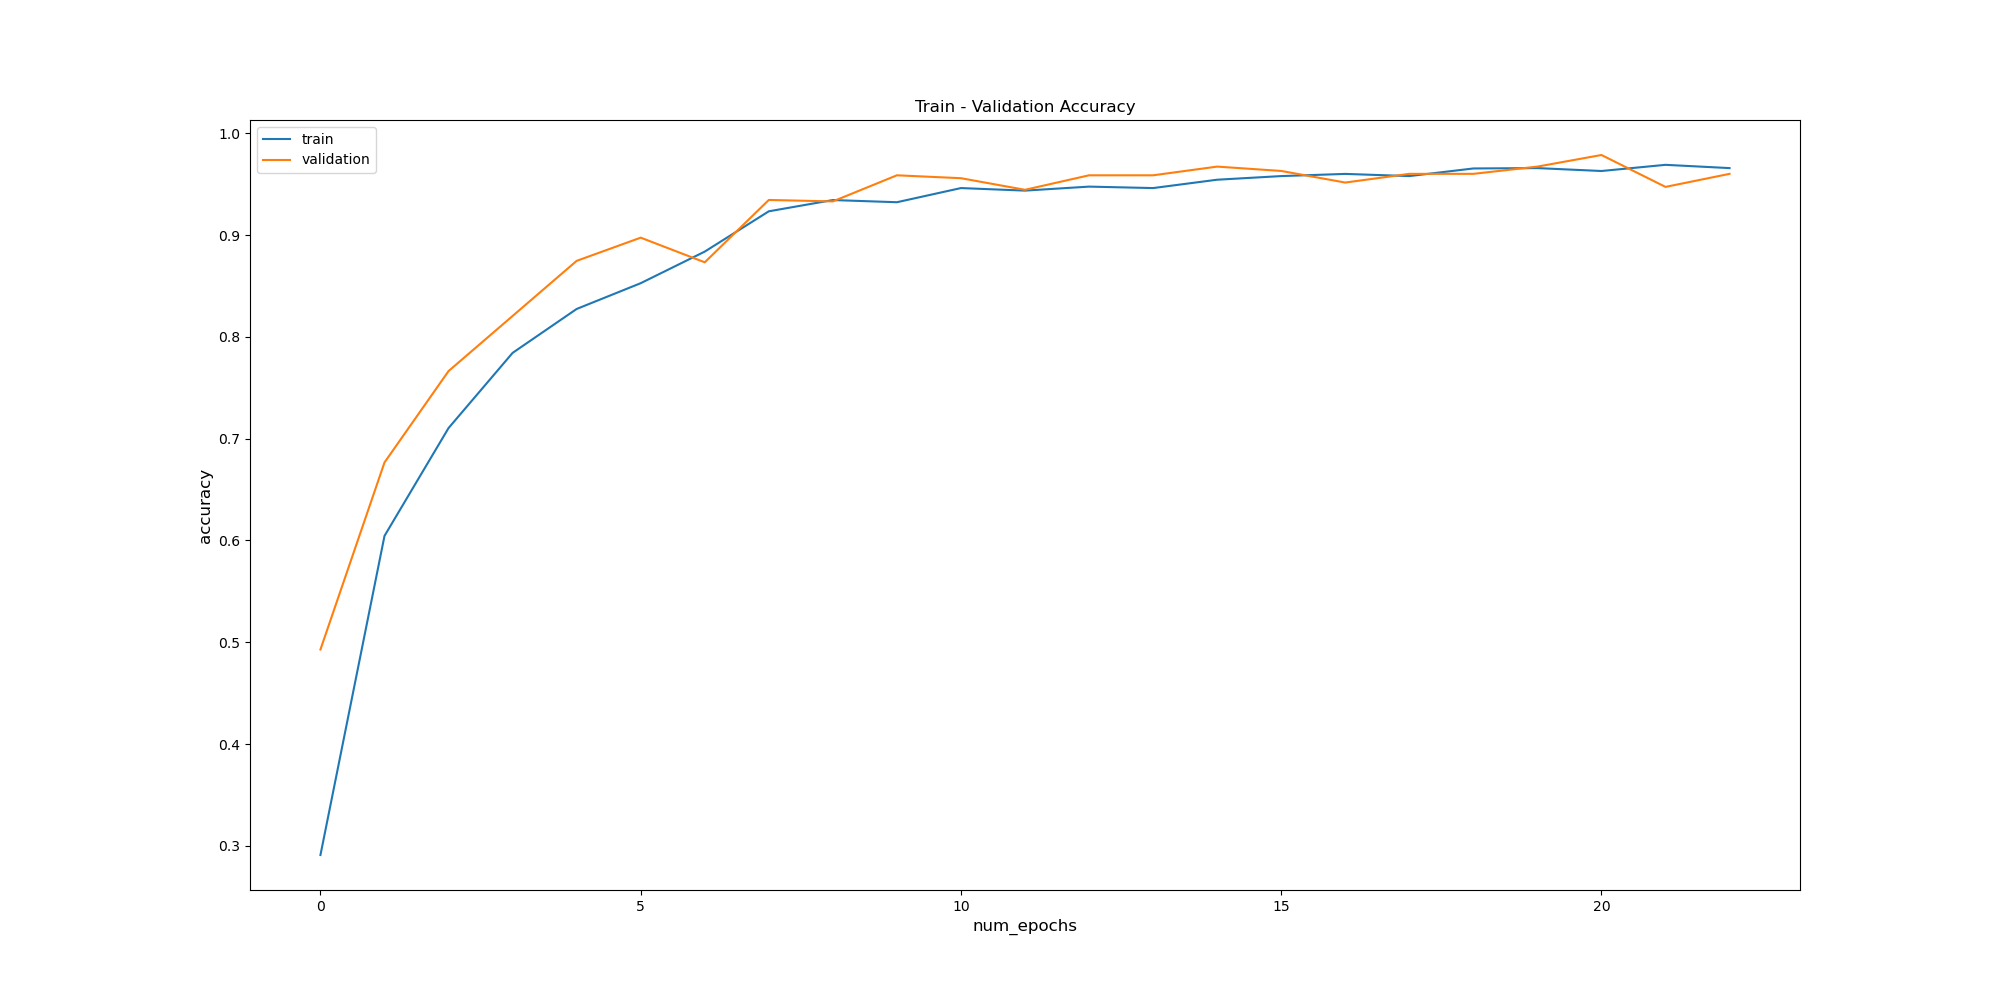
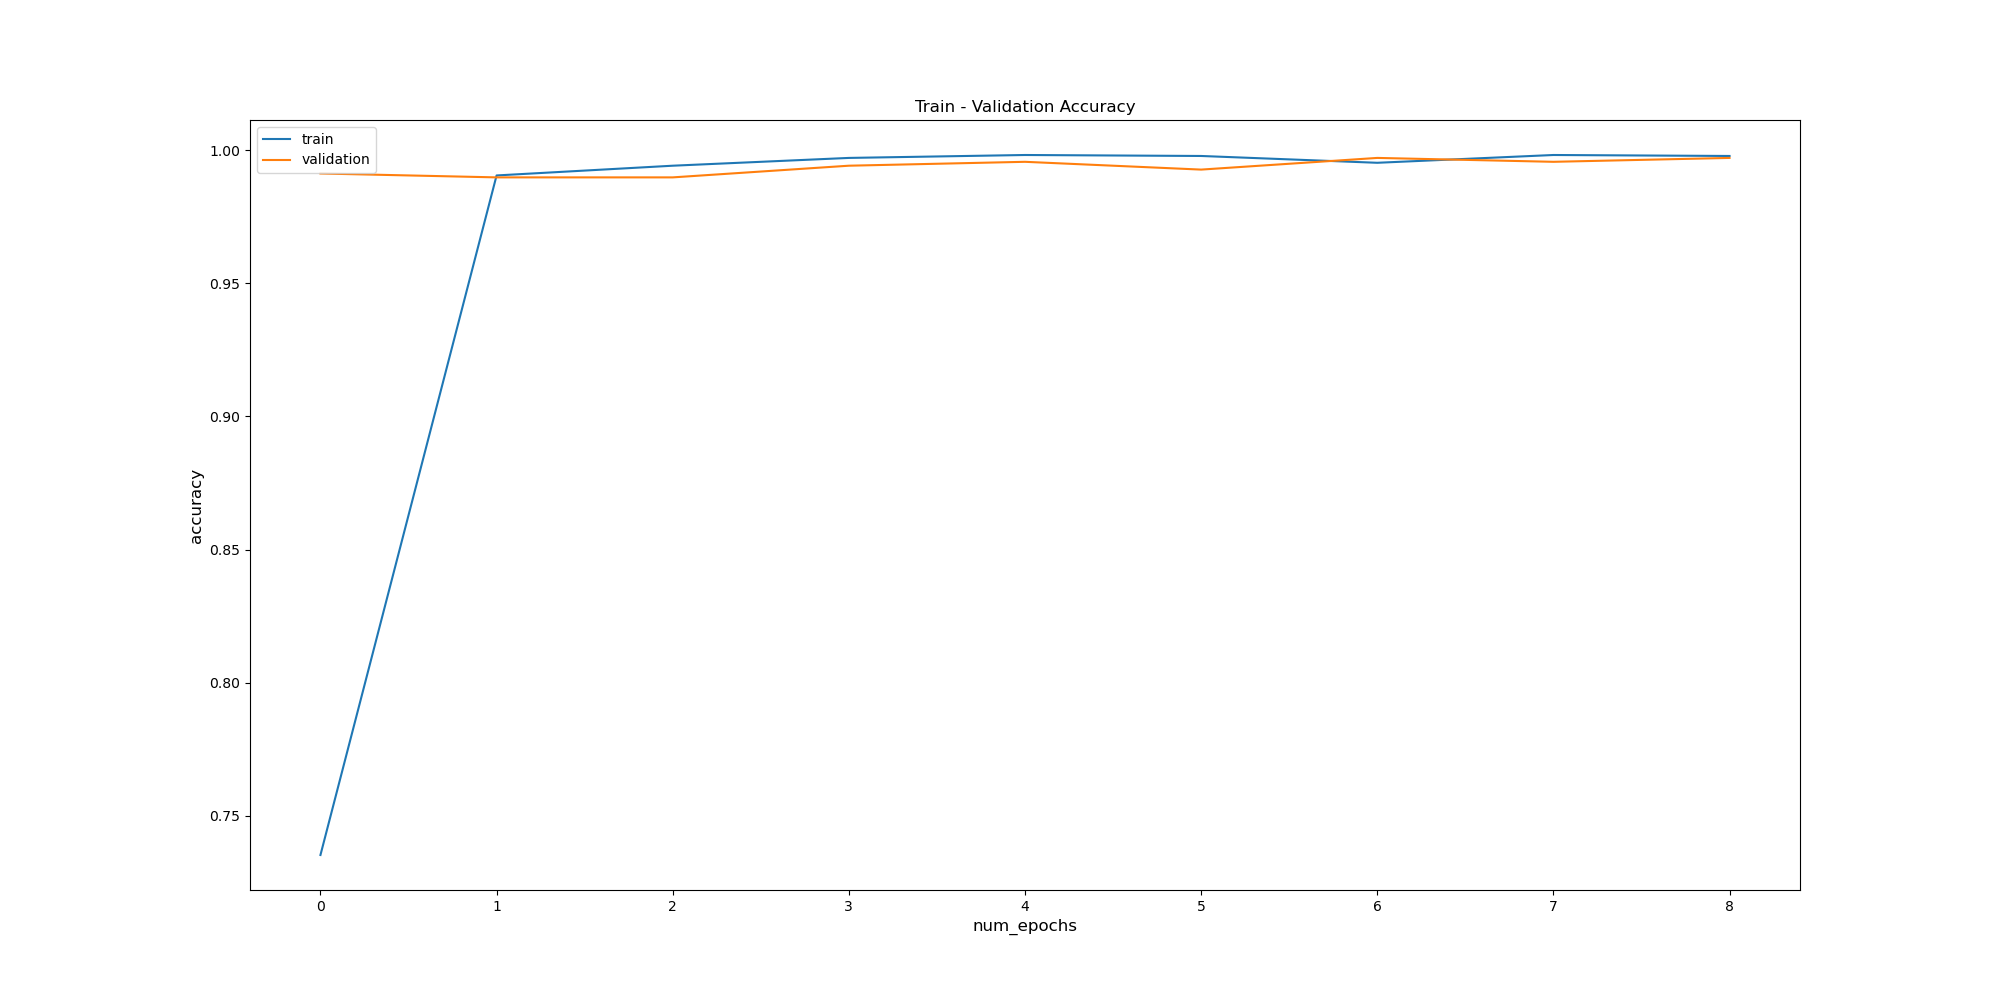
добавить первую демо-версию распознавания жестов цифр американского жестового языка на видео в реальном времени

diff --git a/extract_points/extract_keypoints_from_photo.py b/extract_points/extract_keypoints_from_photo.py
@@ -9,9 +9,15 @@ from public.coordinates_utils import get_coord_landmarks, find_delta_xy, get_pos
 DATA_PATH = os.path.join('../Hands_Data')
 PHOTO_PATH = os.path.join('../photos')
 HANDS_PATH = os.path.join('../mediapipe_photo')
+
+ASL_PATH = os.path.join('../ASL_Hands_Data')
+ASL_PHOTO_PATH = os.path.join('../ASL_digits')
+ASL_HANDS_PATH = os.path.join('../ASL_mediapipe_photo')
+
 LANDMARK_THICKNESS = 2
 
 numbers = ['1', '2', '3', '4', '5', '6', '7', '8', '9', '10']
+asl_numbers = ['0', '1', '2', '3', '4', '5', '6', '7', '8', '9']
 
 mp_drawing = mp.solutions.drawing_utils
 mp_drawing_styles = mp.solutions.drawing_styles
@@ -19,15 +25,15 @@ mp_hands = mp.solutions.hands
 
 
 def make_dirs():
-    if not os.path.exists(DATA_PATH):
-        os.mkdir(DATA_PATH)
+    if not os.path.exists(ASL_PATH):
+        os.mkdir(ASL_PATH)
 
-    if not os.path.exists(HANDS_PATH):
-        os.mkdir(HANDS_PATH)
+    if not os.path.exists(ASL_HANDS_PATH):
+        os.mkdir(ASL_HANDS_PATH)
 
-    for number in numbers:
-        path1 = os.path.join(DATA_PATH, number)
-        path2 = os.path.join(HANDS_PATH, number)
+    for number in asl_numbers:
+        path1 = os.path.join(ASL_PATH, number)
+        path2 = os.path.join(ASL_HANDS_PATH, number)
         if not os.path.exists(path1):
             os.mkdir(path1)
         if not os.path.exists(path2):
@@ -42,18 +48,18 @@ def draw_landmarks(annotated_image, hand_landmarks, number, file_name):
         mp_drawing_styles.get_default_hand_landmarks_style(),
         mp_drawing_styles.get_default_hand_connections_style())
     cv2.imwrite(
-        os.path.join(HANDS_PATH, number, file_name), cv2.flip(annotated_image, 1))
+        os.path.join(ASL_HANDS_PATH, number, file_name), cv2.flip(annotated_image, 1))
 
 
 def extract_keypoints_from_photo():
-    for number in numbers:
-        folder_path = os.path.join(PHOTO_PATH, number)
+    for number in asl_numbers:
+        folder_path = os.path.join(ASL_PHOTO_PATH, number)
         photos_name = [f for f in os.listdir(folder_path)]
 
         # установить модель mediapipe
         with mp_hands.Hands(static_image_mode=True, min_detection_confidence=0.6) as hands:
             for file_name in photos_name:
-                file = os.path.join(PHOTO_PATH, number, file_name)
+                file = os.path.join(ASL_PHOTO_PATH, number, file_name)
 
                 image = cv2.flip(cv2.imread(file), 1)
                 results = hands.process(cv2.cvtColor(image, cv2.COLOR_BGR2RGB))
@@ -70,26 +76,26 @@ def extract_keypoints_from_photo():
 
                         draw_landmarks(annotated_image, hand_landmarks, number, file_name)
 
-                        path_coord = os.path.join(DATA_PATH, number, file_name.replace('.png', '') + ".json")
+                        path_coord = os.path.join(ASL_PATH, number, file_name.replace('.png', '') + ".json")
 
                         if len(results.multi_hand_landmarks) == 1 or (
                                 len(results.multi_hand_landmarks) == 2 and len(lm) == 42):
 
                             with open(path_coord, 'w') as jf:
-                                if len(results.multi_hand_landmarks) == 2 and len(lm) == 42:
-                                    max_x, min_x, max_y, min_y = find_delta_xy(lm)
-
-                                    dx, dy = max_x - min_x, max_y - min_y
-
-                                    for i in range(len(lm)):
-                                        lm[i][0] = (lm[i][0] - min_x) / dx
-                                        lm[i][1] = (lm[i][1] - min_y) / dy
-
-                                    lm = lm + [get_position_wrists(results)]
-
-                                # чтоб везде было 42
-                                if len(results.multi_hand_landmarks) == 1:
-                                    lm = lm + [[0.0] * 3] * 22
+                                # if len(results.multi_hand_landmarks) == 2 and len(lm) == 42:
+                                #     max_x, min_x, max_y, min_y = find_delta_xy(lm)
+                                #
+                                #     dx, dy = max_x - min_x, max_y - min_y
+                                #
+                                #     for i in range(len(lm)):
+                                #         lm[i][0] = (lm[i][0] - min_x) / dx
+                                #         lm[i][1] = (lm[i][1] - min_y) / dy
+                                #
+                                #     lm = lm + [get_position_wrists(results)]
+                                #
+                                # # чтоб везде было 42
+                                # if len(results.multi_hand_landmarks) == 1:
+                                #     lm = lm + [[0.0] * 3] * 22
 
                                 json.dump({'num_hands': len(results.multi_hand_landmarks), 'landmarks': lm}, jf)
                                 jf.close()

diff --git a/video_to_define_gesture.py b/video_to_define_gesture.py
@@ -23,11 +23,12 @@ WINDOW_WIDTH = 1024
 WINDOW_HEIGHT = 720
 THICKNESS_CONTOUR = 1
 
-label_map = {0: '1', 1: '2', 2: '3', 3: '4', 4: '5', 5: '6', 6: '7', 7: '8', 8: '9', 9: '10'}
+# label_map = {0: '1', 1: '2', 2: '3', 3: '4', 4: '5', 5: '6', 6: '7', 7: '8', 8: '9', 9: '10'}
+label_map = {0: '0', 1: '1', 2: '2', 3: '3', 4: '4', 5: '5', 6: '6', 7: '7', 8: '8', 9: '9'}
 
 
 def load_model():
-    model = tf.keras.models.load_model('model/my_model')
+    model = tf.keras.models.load_model('model/my_model_asl')
     return model
 
 
@@ -53,20 +54,20 @@ def define_digit_on_frame(hands, frame, model):
         if len(hands.multi_hand_landmarks) == 1 or (
                 len(hands.multi_hand_landmarks) == 2 and len(lm) == 42):
 
-            if len(hands.multi_hand_landmarks) == 2 and len(lm) == 42:
-                max_x, min_x, max_y, min_y = find_delta_xy(lm)
-
-                dx, dy = max_x - min_x, max_y - min_y
-
-                for i in range(len(lm)):
-                    lm[i][0] = (lm[i][0] - min_x) / dx
-                    lm[i][1] = (lm[i][1] - min_y) / dy
-
-                lm = lm + [get_position_wrists(hands)]
-
-            # чтоб везде было 42
-            if len(hands.multi_hand_landmarks) == 1:
-                lm = lm + [[0.0] * 3] * 22
+            # if len(hands.multi_hand_landmarks) == 2 and len(lm) == 42:
+            #     max_x, min_x, max_y, min_y = find_delta_xy(lm)
+            #
+            #     dx, dy = max_x - min_x, max_y - min_y
+            #
+            #     for i in range(len(lm)):
+            #         lm[i][0] = (lm[i][0] - min_x) / dx
+            #         lm[i][1] = (lm[i][1] - min_y) / dy
+            #
+            #     lm = lm + [get_position_wrists(hands)]
+            #
+            # # чтоб везде было 42
+            # if len(hands.multi_hand_landmarks) == 1:
+            #     lm = lm + [[0.0] * 3] * 22
 
             prediction = model.predict([lm])
             return label_map[np.argmax(prediction)]

diff --git a/learn_model.py b/learn_model.py
@@ -10,20 +10,22 @@ from tensorflow.keras.layers import Dense, Flatten
 from tensorflow.keras.callbacks import ReduceLROnPlateau, EarlyStopping
 
 DATA_PATH = "Hands_Data"
+ASL_PATH = "ASL_Hands_Data"
 MODEL_PATH = "model"
 numbers = ['1', '2', '3', '4', '5', '6', '7', '8', '9', '10']
-label_map = {label: num for num, label in enumerate(numbers)}
+asl_numbers = ['0', '1', '2', '3', '4', '5', '6', '7', '8', '9']
+label_map = {label: num for num, label in enumerate(asl_numbers)}
 
 
 def load_data():
     X = []
     y = []
 
-    for number in numbers:
-        data_path = os.path.join(DATA_PATH, number)
+    for number in asl_numbers:
+        data_path = os.path.join(ASL_PATH, number)
         json_datas = [f for f in os.listdir(data_path)]
         for data_file in json_datas:
-            with open(os.path.join(DATA_PATH, number, data_file), 'r') as jf:
+            with open(os.path.join(ASL_PATH, number, data_file), 'r') as jf:
                 data = json.load(jf)
                 X.append(data['landmarks'])
                 y.append(label_map[number])
@@ -42,7 +44,7 @@ def prepare_data():
 
 def create_model():
     model = Sequential()
-    model.add(Dense(43 * 3, activation='relu', input_shape=(43, 3)))
+    model.add(Dense(21 * 3, activation='relu', input_shape=(21, 3)))
     model.add(Flatten())
     model.add(Dense(128, activation='relu'))
     model.add(Dense(256, activation='relu'))
@@ -73,8 +75,8 @@ def predict(model, test_x, test_y):
 def save_model(model):
     if not os.path.exists(MODEL_PATH):
         os.mkdir(MODEL_PATH)
-    model.save(os.path.join(MODEL_PATH, 'my_model'))
-    model.save_weights(os.path.join(MODEL_PATH, 'weights'))
+    model.save(os.path.join(MODEL_PATH, 'my_model_asl'))
+    model.save_weights(os.path.join(MODEL_PATH, 'weights_asl'))
 
 
 def draw_history():
